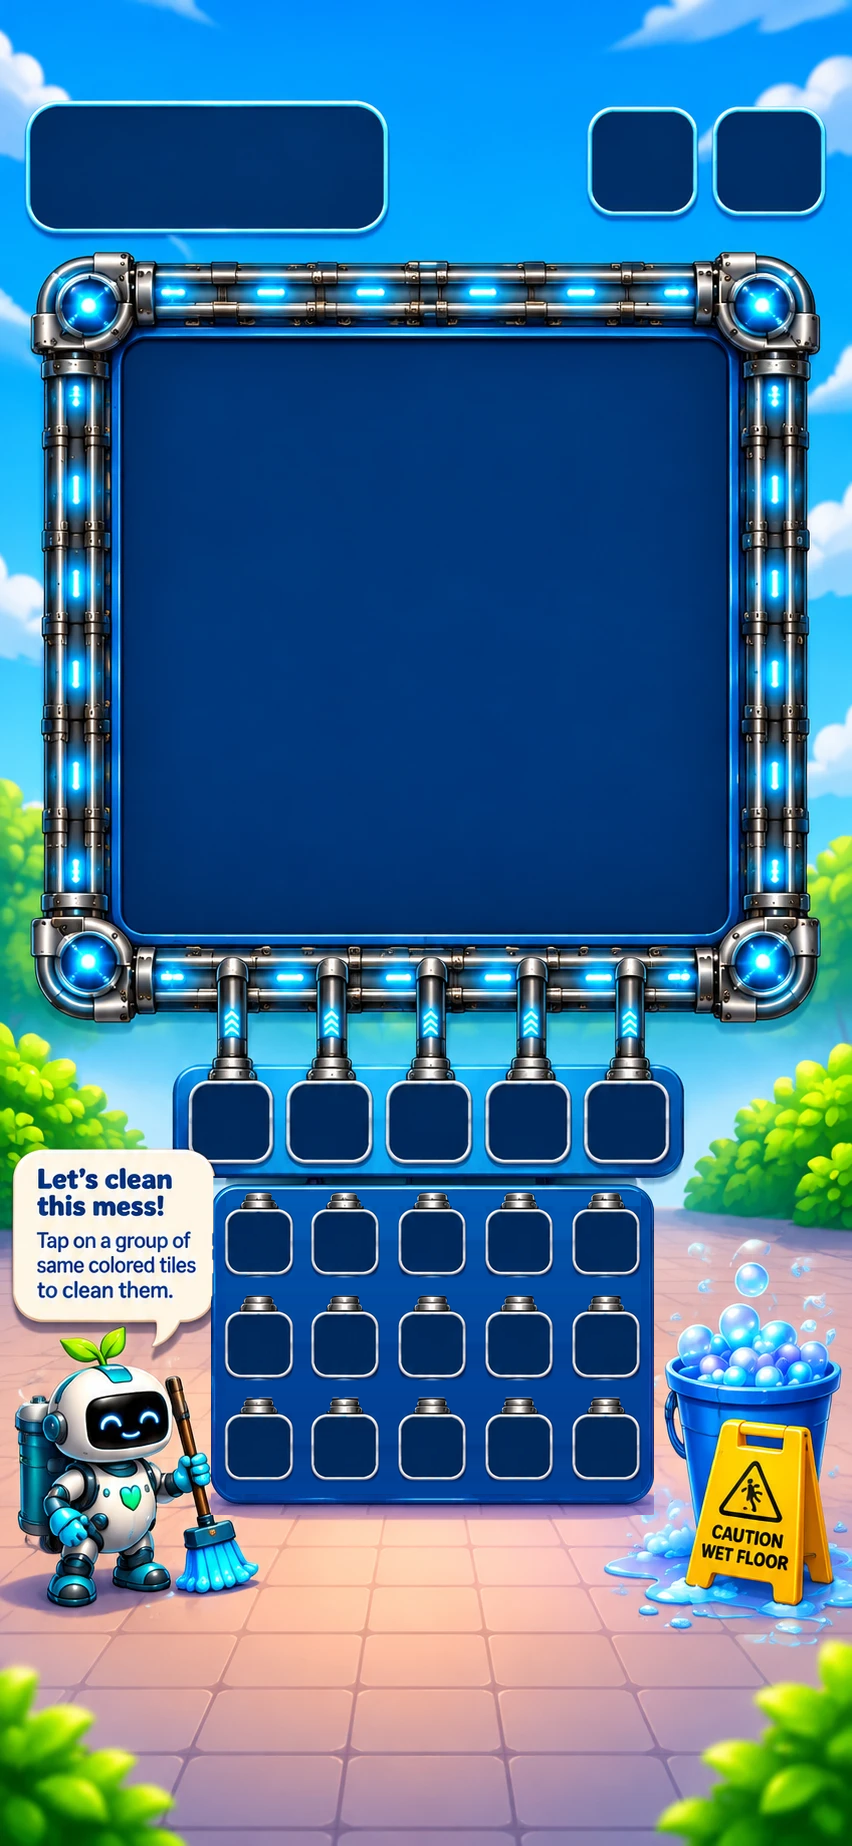
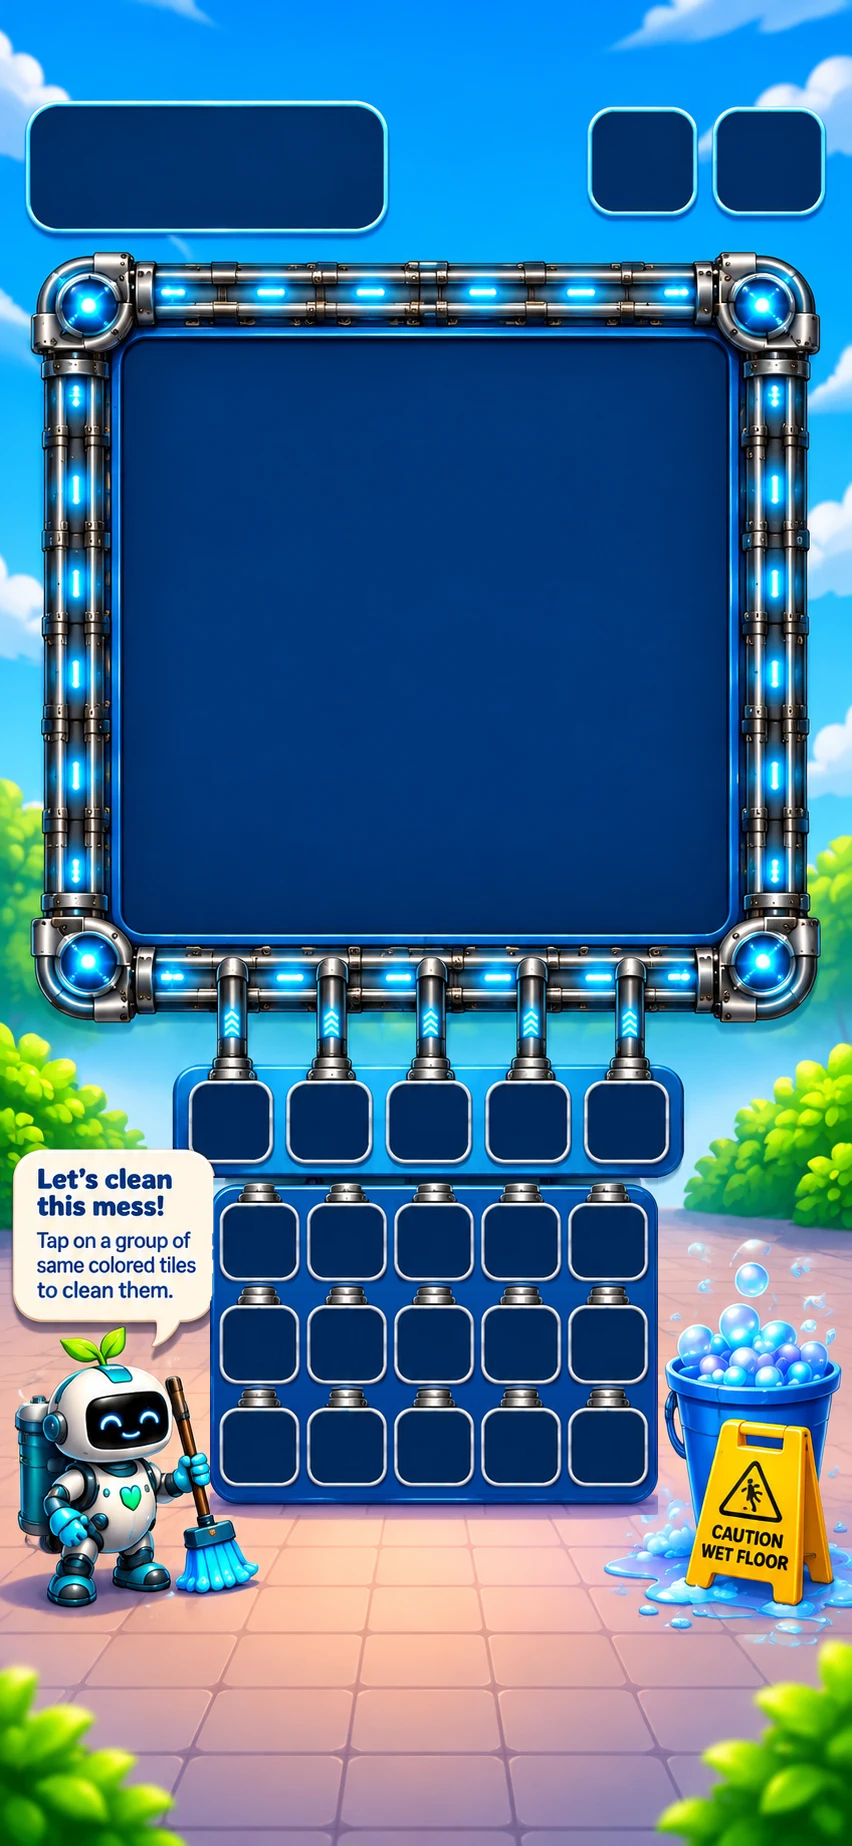
fix: plaza shell CI - 5-col cells keep 32 px symbols, L30 real-play order, m46 density floor

diff --git a/coordination/OWNER_GAMEPLAY_345_STATIC_MASTER_SHELL_V01.md b/coordination/OWNER_GAMEPLAY_345_STATIC_MASTER_SHELL_V01.md
@@ -276,8 +276,8 @@ The six runtime masters are now `assets/ui/final/gameplay/master/gameplay_v03_pl
 five are cut only from the owner image's own pixels (no image generation): one real slot period
 (slot frame + connector pipe + bottom-rail segment) added for 6 slots, one real supply column period
 removed for 3 columns (uncovered floor rebuilt from the floor beside it), and for 5 columns the
-emptied real panel widened 35 px with the real cell tiles (frame + top clip) laid at 0.80 scale and
-an 87 px column pitch (keeps every front hitbox >= 88 px on 1080×1920). The speech bubble is
+emptied real panel widened 40 px with the real cell tiles (frame + top clip) laid at 0.95 scale and
+an 87 px column pitch (job 163: colour symbols stay >= 32 px on 720×1280; keeps every front hitbox >= 88 px on 1080×1920). The speech bubble is
 re-composited from the owner image over any widened part. Generator, measurement script, contact
 sheet and captures: `factory/jobs/159-gameplay-shell-plaza/`.
 
@@ -285,10 +285,10 @@ sheet and captures: `factory/jobs/159-gameplay-shell-plaza/`.
 |---|---|
[8 lines of base64/hex data omitted]
 
 All baked reference coordinates (rail, slots, connectors, supply cells, top bar, bubble text mask,
 booster and ad bands) were re-measured by pixel analysis and live in
